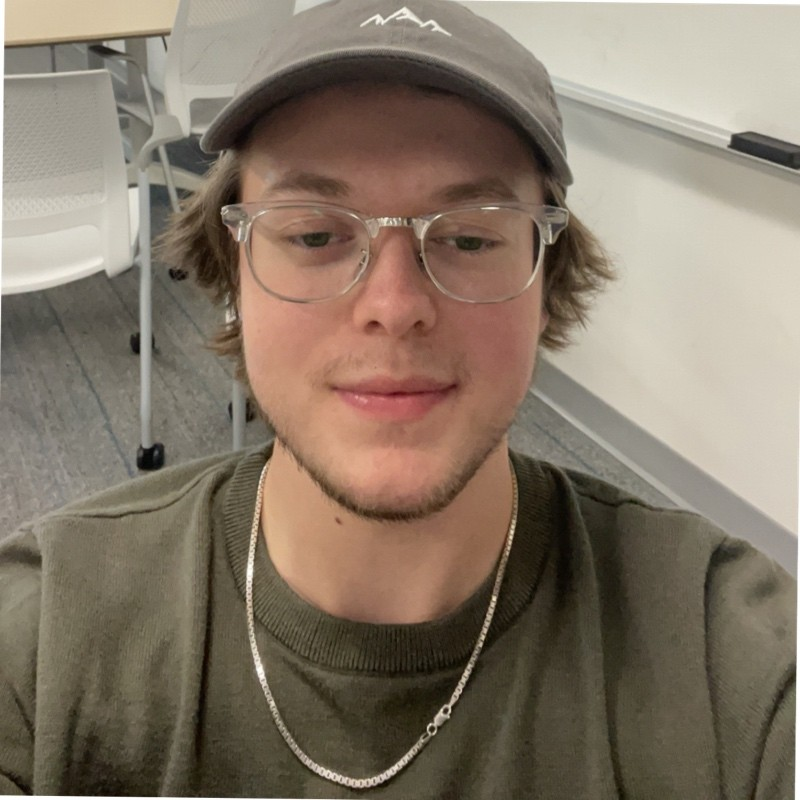
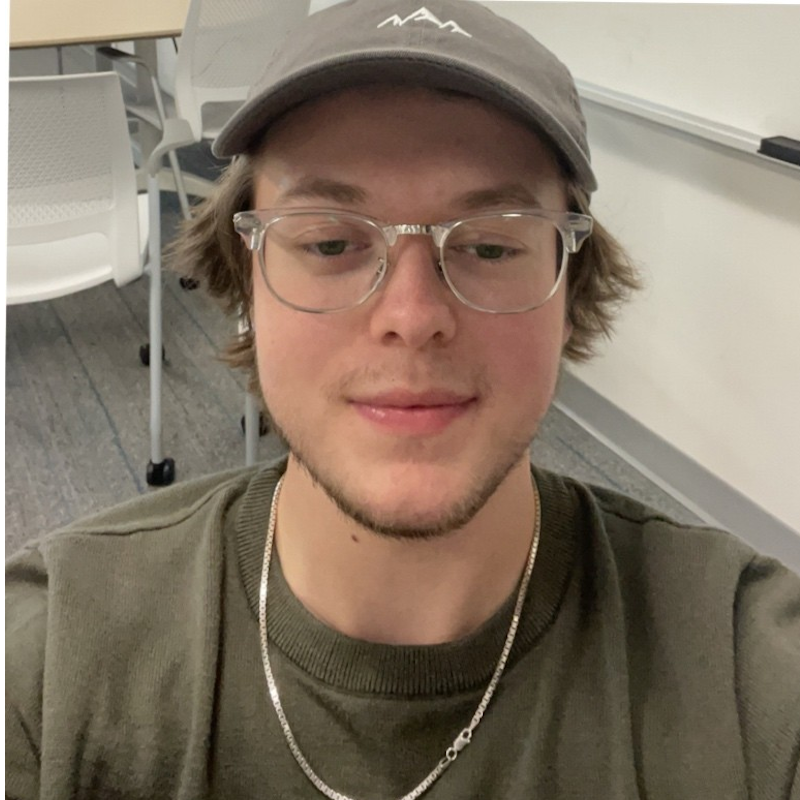
Changed hero photo

diff --git a/src/components/Hero.tsx b/src/components/Hero.tsx
@@ -23,7 +23,7 @@ const Hero: React.FC = () => {
         <div className="profileWrapper">
           <span className="greenSymbolLeft">{`{`}</span>
           <img
-            src="https://avatars.githubusercontent.com/u/69118918?v=4"
+            src="/pfp.png"
             alt="Profile"
             className="profileImage"
           />
